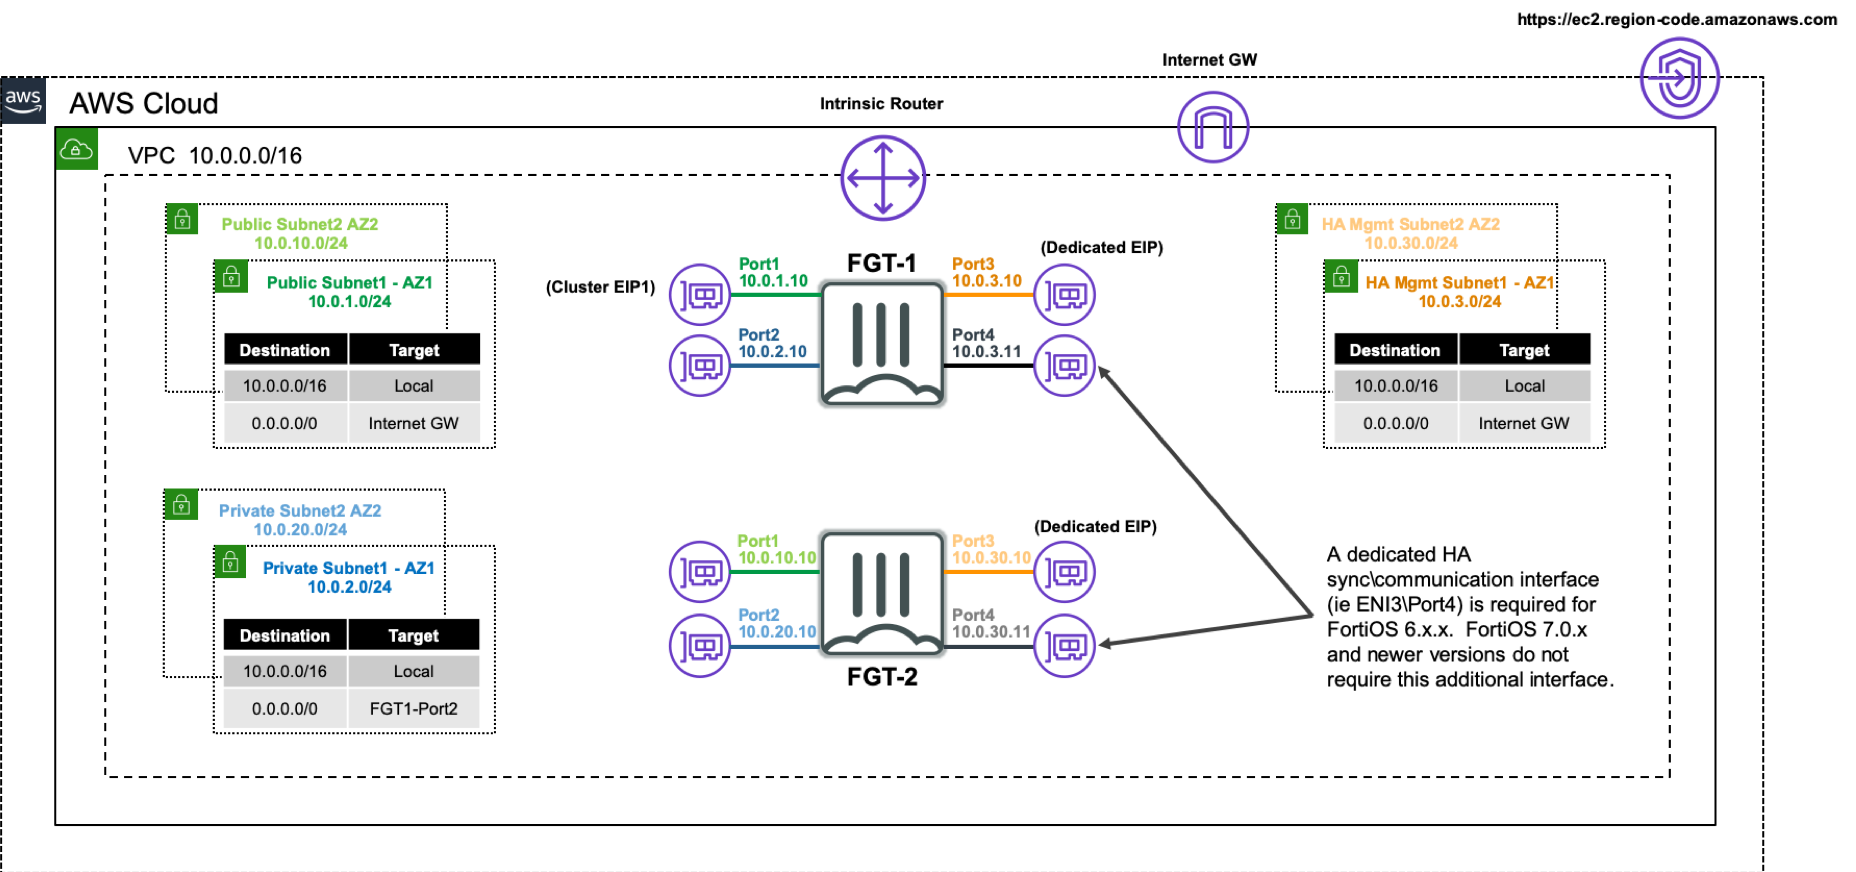
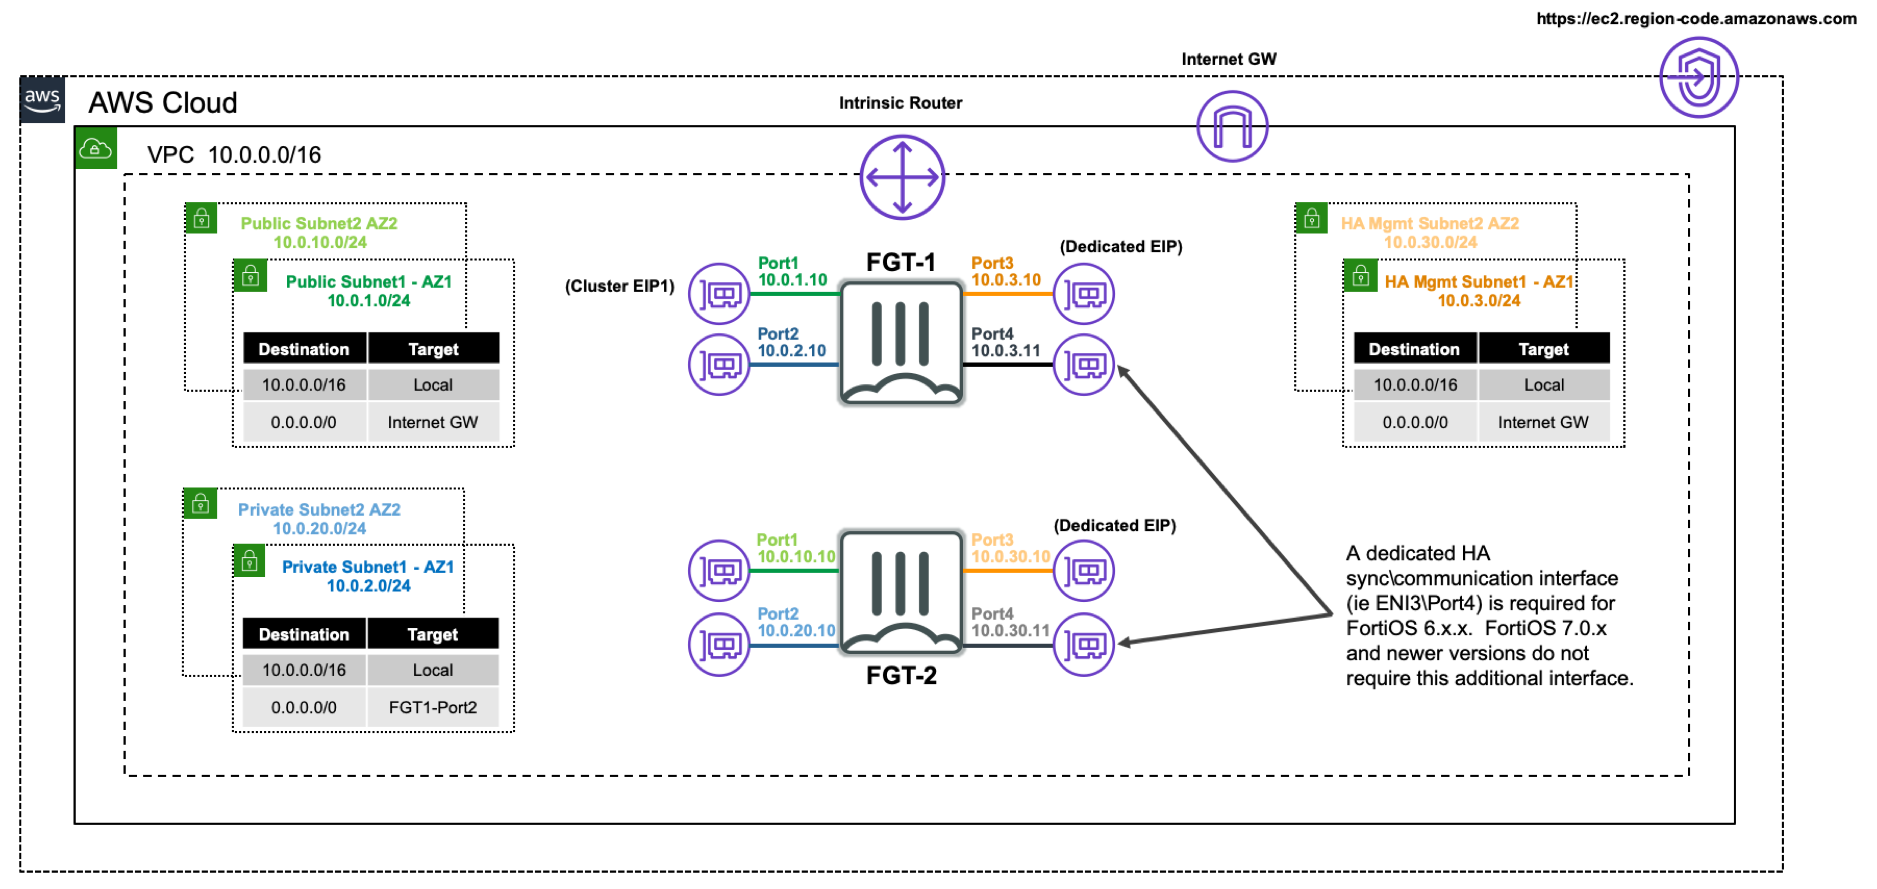
update images

diff --git a/README.md b/README.md
@@ -69,7 +69,7 @@ The FortiGates are configured to use the unicast version of FGCP by applying the
     set override disable
     set priority 255
     set unicast-hb enable
-    set unicast-hb-peerip 10.0.30.7
+    set unicast-hb-peerip 10.0.30.10
     end
 
 #### Example Slave FGCP Configuration:
@@ -96,7 +96,7 @@ The FortiGates are configured to use the unicast version of FGCP by applying the
     set override disable
     set priority 1
     set unicast-hb enable
-    set unicast-hb-peerip 10.0.3.7
+    set unicast-hb-peerip 10.0.3.10
     end
 
 The FortiGate instances will make calls to the public AWS EC2 API to update AWS SDN to failover both inbound and outbound traffic flows to the new master FortiGate instance.  There are a few components that make this possible.
@@ -186,75 +186,73 @@ Once the prerequisites have been satisfied, login to your account in the AWS con
 5.  In the FortiGate Instance Configuration parameters section, we have selected an Instance Type and Key Pair to use for the FortiGates as well as BYOL licensing.  Notice we are prompted for if an S3 endpoint should be deployed, the InitS3Bucket, License Types, FortiGate1LicenseFile, and FortiGate2LicenseFile parameters.  For the values we are going to reference the S3 bucket and relevant information from the deployment prerequisite step 4.
 
 ![Example Diagram](./content/deploy5.png)
+![Example Diagram](./content/deploy6.png)
 
 6.  In the Interface IP Configuration for the FortiGates parameters section, we are going with the defaults in this example as the subnet addressing matches.  These IPs will be the primary IPs assigned to the FortiGate ENIs.  These values will also be used as the static IPs in the FortiOS configuration for both FortiGates.
 
-![Example Diagram](./content/deploy6.png)
+![Example Diagram](./content/deploy7.png)
 
 7.  On the Options page, you can scroll to the bottom and select Next.
-8.  On the Review page, confirm that the stack name and parameters are correct.  This is what the parameters look like in this example.  Notice the parameter values for the init S3 bucket and FortiGate License filenames.
 
-![Example Diagram](./content/deploy8.png)
-
-9.  On the Review page, scroll down to the capabilities section.  As the template will create IAM resources, you need to acknowledge this by checking the box next to ‘I acknowledge that AWS CloudFormation might create IAM resources’ and then click Create.
+8.  On the Review page, scroll down to the capabilities section.  As the template will create IAM resources, you need to acknowledge this by checking the box next to ‘I acknowledge that AWS CloudFormation might create IAM resources’ and then click Create.
 
 ![Example Diagram](./content/deploy9.png)
 
-10.  On the main AWS CloudFormation console, you will now see your stack being created.  You can monitor the progress by selecting your stack and then select the Events tab.
+9.  On the main AWS CloudFormation console, you will now see your stack being created.  You can monitor the progress by selecting your stack and then select the Events tab.
 
 ![Example Diagram](./content/deploy10.png)
 
-11.  Once the stack creation has completed successfully, select the Outputs tab to get the login information for the FortiGate instances and cluster.
+10.  Once the stack creation has completed successfully, select the Outputs tab to get the login information for the FortiGate instances and cluster.
 
 ![Example Diagram](./content/deploy11.png)
 
-12.  Using the login information in the stack outputs, login to the master FortiGate instance with the ClusterLoginURL.  This should put you on FortiGate 1.  You will also be prompted to change the initial password for the admin account.
+11.  Using the login information in the stack outputs, login to the master FortiGate instance with the ClusterLoginURL.  This should put you on FortiGate 1.  You will also be prompted to change the initial password for the admin account.
 
 ![Example Diagram](./content/deploy13.png)
 
-13.  Navigate to the HA status page on the master FortiGate by going to System > HA.  Now you should see both FortiGate 1 and FortiGate 2 in the cluster with FortiGate 2 as the current slave.
+12.  Navigate to the HA status page on the master FortiGate by going to System > HA.  Now you should see both FortiGate 1 and FortiGate 2 in the cluster with FortiGate 2 as the current slave.
 
 ![Example Diagram](./content/deploy14.png)
 
-14.  Give the HA cluster time to finish synchronizing their configuration and update files.  You can confirm that both the master and slave FortiGates are in sync by looking at the Status column and confirming there is a green check next to both FortiGates and the status is Synchronized.
+13.  Give the HA cluster time to finish synchronizing their configuration and update files.  You can confirm that both the master and slave FortiGates are in sync by looking at the Status column and confirming there is a green check next to both FortiGates and the status is Synchronized.
 
 *** **Note:** Due to browser caching issues, the icon for Synchronization status may not update properly after the cluster is in-sync.  So either close your browser and log back into the cluster or alternatively verify the HA config sync status with the CLI command ‘get system ha status’. ***
 
 ![Example Diagram](./content/deploy15.png)
 
-15.  Navigate to the AWS EC2 console and reference the instance Detail tab for FortiGate 1.  Notice the primary IPs assigned to the instance ENIs as well as the 2 EIPs associated to the instance, the Cluster EIP and the HAmgmt EIP.
+14.  Navigate to the AWS EC2 console and reference the instance Detail tab for FortiGate 1.  Notice the primary IPs assigned to the instance ENIs as well as the 2 EIPs associated to the instance, the Cluster EIP and the HAmgmt EIP.
 
 ![Example Diagram](./content/deploy16.png)
 
-16.  Now reference the instance Detail tab for FortiGate 2.  Notice the primary IPs assigned to the instance ENIs and only one EIP is the HAmgmt EIP.
+15.  Now reference the instance Detail tab for FortiGate 2.  Notice the primary IPs assigned to the instance ENIs and only one EIP is the HAmgmt EIP.
 
 ![Example Diagram](./content/deploy17.png)
 
-17.  Navigate to the AWS VPC console and create a default route in the default route table with a next hop targeting ENI1\port2 of FortiGate 1 which is the current master.
+16.  Navigate to the AWS VPC console and create a default route in the default route table with a next hop targeting ENI1\port2 of FortiGate 1 which is the current master.
 
 ![Example Diagram](./content/deploy18.png)
 
-18.  Navigate back to the AWS EC2 console and reference the instance Detail tab for FortiGate 1.  Now shutdown FortiGate 1 via the EC2 console and refresh the page after a few seconds.  Notice that the Cluster EIP is no longer assigned to FortiGate 1.
+17.  Navigate back to the AWS EC2 console and reference the instance Detail tab for FortiGate 1.  Now shutdown FortiGate 1 via the EC2 console and refresh the page after a few seconds.  Notice that the Cluster EIP is no longer assigned to FortiGate 1.
 
 ![Example Diagram](./content/deploy19.png)
 
-19.  Now reference the instance Detail tab for FortiGate 2.  Notice that the Cluster EIP is now associated to FortiGate 2.
+18.  Now reference the instance Detail tab for FortiGate 2.  Notice that the Cluster EIP is now associated to FortiGate 2.
 
 ![Example Diagram](./content/deploy20.png)
 
-20.  Navigate back to the AWS VPC console and look at the routes for the default route table.  The default route target is now pointing to ENI1\port2 of FortiGate 2.
+19.  Navigate back to the AWS VPC console and look at the routes for the default route table.  The default route target is now pointing to ENI1\port2 of FortiGate 2.
 
 ![Example Diagram](./content/deploy21.png)
 
-21.  Now log back into the cluster_login_url and you will be placed on the current master FortiGate, which should now be FortiGate 2.
+20.  Now log back into the cluster_login_url and you will be placed on the current master FortiGate, which should now be FortiGate 2.
 
 ![Example Diagram](./content/deploy22.png)
 
-22.  Now power on FortiGate 1 and confirm that it joins the cluster successfully as the slave and FortiGate 2 continues to be the master FortiGate.
+21.  Now power on FortiGate 1 and confirm that it joins the cluster successfully as the slave and FortiGate 2 continues to be the master FortiGate.
 
 ![Example Diagram](./content/deploy23.png)
 
-23.  This concludes the template deployment example.
+22.  This concludes the template deployment example.
 ----
 
 ## FAQ \ Troubleshoot
